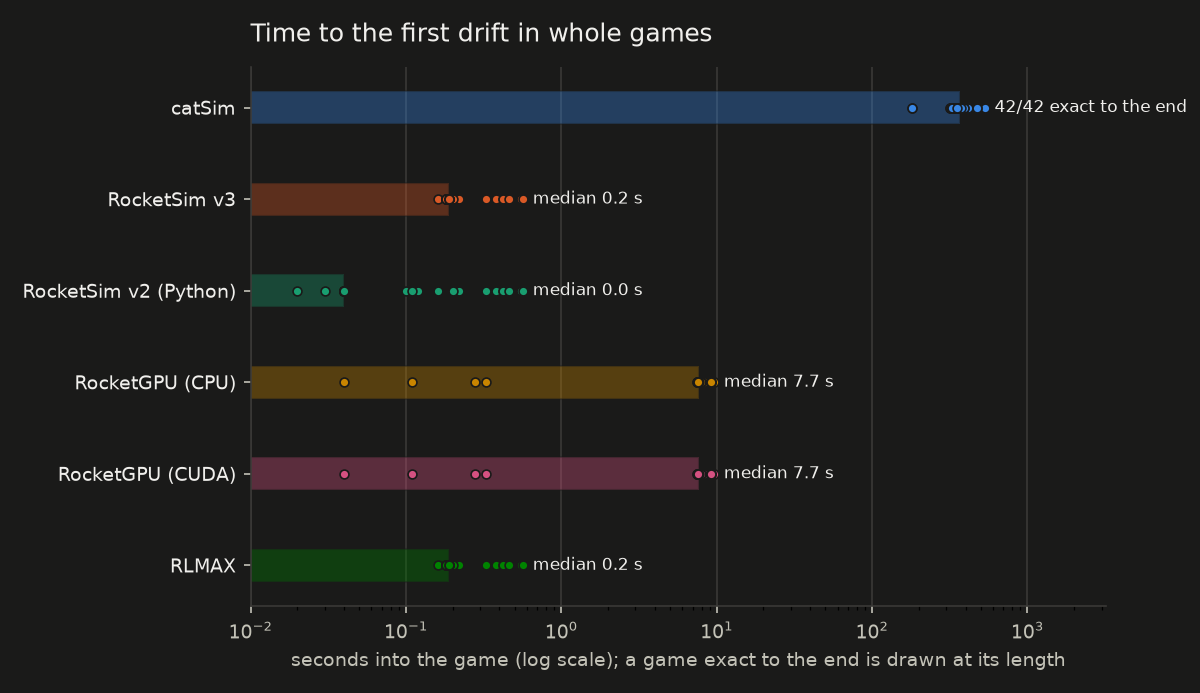
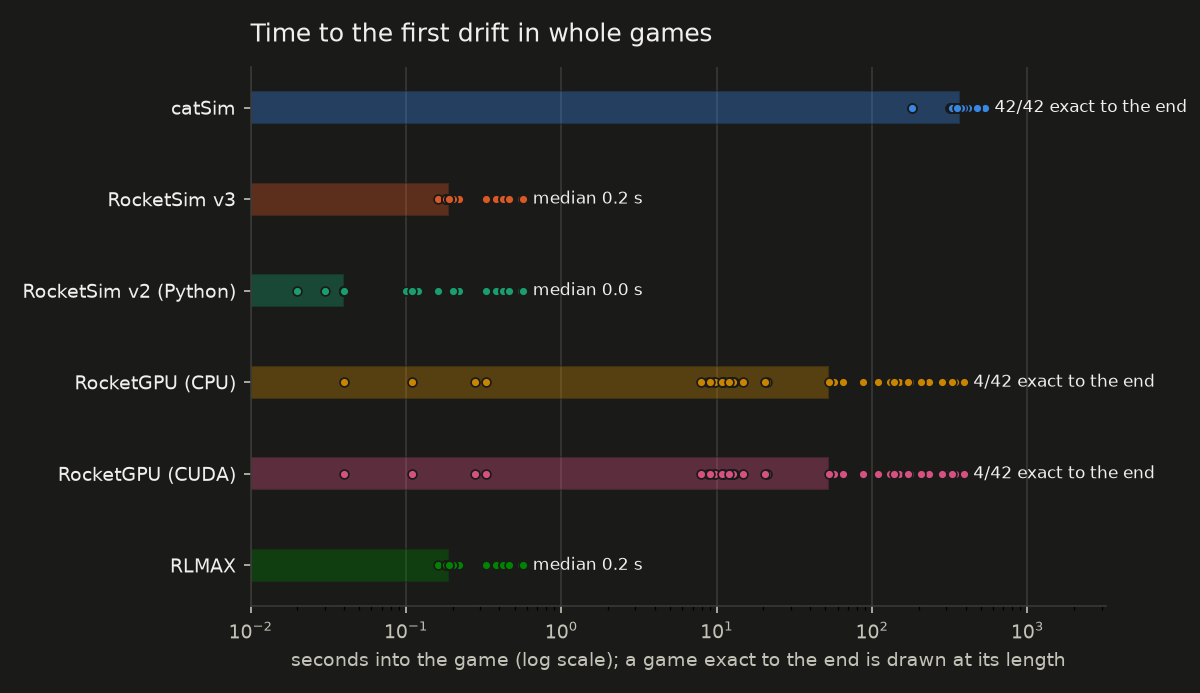
docs: the benchmark from the final runs so far: every later kickoff and respawn exact on the harness flow, catSim's rows on 0.1.3, the machine of each row; RocketGPU CUDA's public state and packet fields still to come

Changed region(s): [[0.555, 0.6364, 0.9558, 0.7273], [0.555, 0.5152, 0.9558, 0.5758]]

diff --git a/docs/BENCHMARKS.md b/docs/BENCHMARKS.md
@@ -8,25 +8,32 @@ simulator was given and what was scored. Every simulator that was run gets a col
 
 <!-- simbench:summary (generated by python -m simbench report; edit report.py, not this) -->
 
-The same tests for every simulator, on one machine: Intel Core i7-11700K (16 threads), NVIDIA RTX 5070 Ti, 2026-11-07.
+The same tests for every simulator, on one machine (Intel Core i7-11700K (16 threads, RTX 5070 Ti), 2026-11-07) but for the accuracy rows the notes name.
 
 ## Accuracy
 
+### Whole games: the simulator runs each match from the first kickoff to the end
+
 | test | catSim | RocketGPU (CPU) | RocketGPU (CUDA) | RocketSim v3 | RocketSim v2 | RLMAX |
 |---|---|---|---|---|---|---|
-| **Whole games: the simulator runs each match from the first kickoff to the end** | | | | | | |
-| Kickoff and respawn spots given<br><sub>42 recorded matches, compared at packet precision</sub> | **42 / 42** exact to the end | **0 / 42** first drift after 7.7 s (median) | **0 / 42** first drift after 7.7 s (median) | **0 / 42** first drift after 0.2 s (median) | **0 / 42** first drift after 0.0 s (median) | **0 / 42** first drift after 0.2 s (median) |
+| Kickoff and respawn spots given<br><sub>42 recorded matches, compared at packet precision</sub> | **42 / 42** exact to the end | **4 / 42** first drift after 36.9 s (median) | **4 / 42** first drift after 36.9 s (median) | **0 / 42** first drift after 0.2 s (median) | **0 / 42** first drift after 0.0 s (median) | **0 / 42** first drift after 0.2 s (median) |
 | Only the random stream's initial state given<br><sub>7 recorded matches; the simulator picks every spot itself</sub> | **6 / 7** 1 match drifts, the first at 154.4 s | **—** doesn't model the game's random stream | **—** doesn't model the game's random stream | **—** doesn't model the game's random stream | **—** doesn't model the game's random stream | **—** doesn't model the game's random stream |
-| At float precision, spots given<br><sub>7 captured matches, every body's internal floats after every frame</sub> | **6 / 7** 1 of 287,409 float rows off | **0 / 7** 59.02% of float rows exact | **0 / 7** 59.02% of float rows exact | **0 / 7** 0.01% of float rows exact | **0 / 7** 0.01% of float rows exact | **0 / 7** 4.00% of float rows exact |
+| At float precision, spots given<br><sub>7 captured matches, every body's internal floats after every frame</sub> | **6 / 7** 1 of 287,409 float rows off | **3 / 7** 84.90% of float rows exact | **3 / 7** 84.90% of float rows exact | **0 / 7** 0.01% of float rows exact | **0 / 7** 0.01% of float rows exact | **0 / 7** 4.00% of float rows exact |
 | At float precision, only the random stream's initial state given<br><sub>7 captured matches, internal floats</sub> | **5 / 7** 91.97% of float rows exact | **—** doesn't model the game's random stream | **—** doesn't model the game's random stream | **—** doesn't model the game's random stream | **—** doesn't model the game's random stream | **—** doesn't model the game's random stream |
-| **Segments: the RocketGPU full-state suite (v2), 26,378 segments of up to 120 ticks, 14.7M body-ticks** | | | | | | |
+
+### Segments: the RocketGPU full-state suite (v2), 26,378 segments of up to 120 ticks, 14.7M body-ticks
+
+| test | catSim | RocketGPU (CPU) | RocketGPU (CUDA) | RocketSim v3 | RocketSim v2 | RLMAX |
+|---|---|---|---|---|---|---|
 | Started from the game's full internal state<br><sub>physics only: nothing to guess</sub> | **100%** of body-ticks exact | **100%** of body-ticks exact | **100%** of body-ticks exact; the test split only: 10 of 144 recordings, 1.6M of 14.7M body-ticks | **—** can't load the full state | **—** can't load the full state | **—** can't load the full state |
 | Started from the public state<br><sub>what a packet shows + RocketSim v3's timers; the rest is guessed</sub> | **90.73%** 92.82% within tolerance | **95.84%** 96.36% within tolerance | *not run* | **4.47%** 86.31% within tolerance | **—** can't take this start state | **91.63%** 96.69% within tolerance; scored on 14.2M of 14.7M body-ticks (753 segments it couldn't run) |
 | Started from packet fields only<br><sub>only what an RLBot packet lists</sub> | **74.32%** 67.06% within tolerance | **78.34%** 69.52% within tolerance | *not run* | **3.07%** 64.22% within tolerance | **—** can't take this start state | **76.15%** 77.14% within tolerance; scored on 14.2M of 14.7M body-ticks (753 segments it couldn't run) |
 | RocketSim's own replay test<br><sub>rlpr_metric, unchanged; 120-tick segments</sub> | **97.46%** of car-ticks within tolerance; mean error 1.25 | **—** its adapter can't take an RLPR tick record | **—** its adapter can't take an RLPR tick record | **97.76%** of car-ticks within tolerance; mean error 0.63 | **—** its adapter can't take an RLPR tick record | **—** its adapter can't take an RLPR tick record |
 
 - catSim's whole games run through catSim (Python), its binding that runs whole matches.
-- Whole games for RocketGPU (CPU), RocketGPU (CUDA), RocketSim v3, RocketSim v2 and RLMAX: the harness supplies the match flow each lacks. The first kickoff's cars are born as the game makes them (the recording's restart through catSim's spawn rules from the dump; the simulator runs the drop), each later kickoff starts where the packet shows it, and the harness holds the cars through each countdown, restarts after goals and puts respawned cars on the recording's spots. Each kickoff and respawn puts a new car there with the game's spawn boost, 33.3. At float precision the bodies are set to the game's own floats at the first float row and at each later kickoff's start. Each runs its own physics, pads, boost and demolitions; scored on bodies only.
+- Whole games for RocketGPU (CPU), RocketGPU (CUDA), RocketSim v3, RocketSim v2 and RLMAX: the harness supplies the match flow each lacks. Every kickoff's and respawn's cars are born as the game makes them (the recording's spots through catSim's spawn rules from the dump, at the frame the game does it; the simulator runs the drop), each later restart puts the ball at the game's own spawn with every boost pad back, and the harness holds the cars through each countdown. Each kickoff and respawn puts a new car there with the game's spawn boost, 33.3. At float precision the bodies are set to the game's own floats at the first float row and at each later kickoff's birth, when they don't already hold them. Each runs its own physics, pads, boost and demolitions; scored on bodies only, read as the game reads a body for its packets (speeds capped, the rotation through its packed quaternion).
+- RocketGPU (CUDA)'s rows on the RTX 4070 ran with one local build patch that card needs: in CopyCarWorldRow (include/rocketgpu/detail/step/env_step.hpp), memcpy(&dst, &src, sizeof(T)) in place of the call with __builtin_assume_aligned, which nvcc rejects for sm_89. The same bytes are copied; bench/adapters/rocketgpu.py has it.
+- Accuracy compares bits, so a row doesn't depend on its machine. These ran on Intel Core i9-13900H (20 threads, RTX 4070 Laptop GPU), every other row on the machine named above: kickoff and respawn spots given: RLMAX, RocketGPU (CPU), RocketGPU (CUDA), RocketSim v2, RocketSim v3, catSim; only the random stream's initial state given: catSim; at float precision, spots given: RLMAX, RocketGPU (CPU), RocketGPU (CUDA), RocketSim v2, RocketSim v3, catSim; at float precision, only the random stream's initial state given: catSim; started from the game's full internal state: catSim; started from the public state: catSim; started from packet fields only: catSim; rocketSim's own replay test: catSim.
 
 **Exact**: Position, velocity, spin and rotation bit-for-bit equal to the game's.  
 **Within tolerance**: Off by less than about 2 units of position or 3 units/s of speed (the RocketGPU full-state suite's own measure: under 1 on its normalized error).  
@@ -81,6 +88,7 @@ Machine:
 
 - 11th Gen Intel(R) Core(TM) i7-11700K @ 3.60GHz, 16 threads, 19.5 GB RAM, Linux 6.18.54.1-microsoft-standard-WSL2 (recordings, rlpr, speed, suite). WSL2 on Windows: load from Windows processes is not measured
 - 11th Gen Intel(R) Core(TM) i7-11700K @ 3.60GHz, 16 threads, 19.5 GB RAM, Linux 6.18.54.1-microsoft-standard-WSL2; NVIDIA GeForce RTX 5070 Ti, 16303 MiB, 617.14 (recordings, rlpr, speed, suite). WSL2 on Windows: load from Windows processes is not measured
+- 13th Gen Intel(R) Core(TM) i9-13900H, 20 threads, 7.6 GB RAM, Linux 6.18.33.2-microsoft-standard-WSL2; NVIDIA GeForce RTX 4070 Laptop GPU, 8188 MiB, 592.00 (recordings, rlpr, suite). WSL2 on Windows: load from Windows processes is not measured
 
 <!-- /simbench:summary -->
 
@@ -158,70 +166,70 @@ Scored: every compared packet row to the end of the recording (positions, veloci
 | simulator | match flow | recordings | exact to the end | packet rows exact | first drift: median (range) | error 1 s / 5 s / 30 s |
 |---|---|---:|---:|---:|---|---|
 | catSim (Python) | its own | 42 | 42 | 1,771,098 of 1,771,098 (100.000%) | 366.6 s (179.9-534.2) | 0.000 / 0.000 / 0.000 |
-| RocketSim v3 | the harness | 42 | 0 | 458 of 1,771,098 (0.026%) | 0.2 s (0.2-0.6) | 2.008 / 9.524 / 10.000 |
-| RocketSim v2 (Python) | the harness | 42 | 0 | 107 of 1,771,098 (0.006%) | 0.0 s (0.0-0.6) | 9.569 / 10.000 / 10.000 |
-| RocketGPU (CPU) | the harness | 42 | 0 | 115,839 of 1,771,098 (6.541%) | 7.7 s (0.0-9.7) | 1.668 / 6.604 / 8.981 |
-| RocketGPU (CUDA) | the harness | 42 | 0 | 115,839 of 1,771,098 (6.541%) | 7.7 s (0.0-9.7) | 1.668 / 6.604 / 8.981 |
-| RLMAX | the harness | 42 | 0 | 416 of 1,771,098 (0.023%) | 0.2 s (0.0-0.6) | 4.319 / 9.659 / 10.000 |
+| RocketSim v3 | the harness | 42 | 0 | 610 of 1,771,098 (0.034%) | 0.2 s (0.2-0.6) | 0.645 / 9.500 / 10.000 |
+| RocketSim v2 (Python) | the harness | 42 | 0 | 107 of 1,771,098 (0.006%) | 0.0 s (0.0-0.6) | 9.565 / 10.000 / 10.000 |
+| RocketGPU (CPU) | the harness | 42 | 4 | 1,063,162 of 1,771,098 (60.028%) | 36.9 s (0.0-390.0) | 0.004 / 0.259 / 4.250 |
+| RocketGPU (CUDA) | the harness | 42 | 4 | 1,063,162 of 1,771,098 (60.028%) | 36.9 s (0.0-390.0) | 0.004 / 0.259 / 4.250 |
+| RLMAX | the harness | 42 | 0 | 459 of 1,771,098 (0.026%) | 0.2 s (0.2-0.6) | 3.310 / 9.609 / 10.000 |
 
 Assists for catSim (Python): the first kickoff's start: each car's spot and how many ticks before the first packet its body was born, the broadphase handles, the countdown's timer as it stood; each later kickoff's spots and each demolition respawn's spot, from the recording (the game's random choices); the end-of-match rule: a match that ends in a frame publishes the state before it.
 
-Assists for RocketSim v3: the harness supplies only the match flow the simulator lacks: the first kickoff's cars born as the game makes them (the recording's restart through catSim's spawn rules from the dump: each body at birth, the ticks it is born at; the simulator runs the drop) with the ball held on its spot; each later kickoff's start where the recording's countdown starts it, as its packet shows it (positions to 0.01 uu, velocities to 0.01 uu/s); at float precision, the bodies then set to the game's own floats at the first float row and at each later kickoff's start; a new car with the game's spawn boost, 33.3; the hold through each countdown, the restart after each goal when the recording has it, and each demolished car's respawn spot from the recording; the simulator runs everything it models itself: physics, boost and pads, demolitions and their respawn timers, goals (its own goal, if it has one, changes nothing the harness does); each frame's physics ticks counted from the recording; scored on bodies only (no boost or pads).
+Assists for RocketSim v3: the harness supplies only the match flow the simulator lacks: each kickoff's cars born as the game makes them (the recording's spots through catSim's spawn rules from the dump: each body at birth, the tick it is born at; the simulator runs the drop); the ball on its spot at the first kickoff and, at each later one, at the game's spawn from the restart's frame on, with every boost pad back; each demolished car's respawn the same way, at the recording's spot; at float precision, the bodies then set to the game's own floats at the first float row and at each later kickoff's birth; a new car with the game's spawn boost, 33.3; the hold through each countdown; the end-of-match rule: a match that ends in a frame publishes the state before it; the simulator runs everything it models itself: physics, boost and pads, demolitions and their respawn timers, goals (its own goal, if it has one, changes nothing the harness does); each frame's physics ticks counted from the recording; scored on bodies only (no boost or pads).
 
-Assists for RocketSim v2 (Python): the harness supplies only the match flow the simulator lacks: the first kickoff's cars born as the game makes them (the recording's restart through catSim's spawn rules from the dump: each body at birth, the ticks it is born at; the simulator runs the drop) with the ball held on its spot; each later kickoff's start where the recording's countdown starts it, as its packet shows it (positions to 0.01 uu, velocities to 0.01 uu/s); at float precision, the bodies then set to the game's own floats at the first float row and at each later kickoff's start; a new car with the game's spawn boost, 33.3; the hold through each countdown, the restart after each goal when the recording has it, and each demolished car's respawn spot from the recording; the simulator runs everything it models itself: physics, boost and pads, demolitions and their respawn timers, goals (its own goal, if it has one, changes nothing the harness does); each frame's physics ticks counted from the recording; scored on bodies only (no boost or pads).
+Assists for RocketSim v2 (Python): the harness supplies only the match flow the simulator lacks: each kickoff's cars born as the game makes them (the recording's spots through catSim's spawn rules from the dump: each body at birth, the tick it is born at; the simulator runs the drop); the ball on its spot at the first kickoff and, at each later one, at the game's spawn from the restart's frame on, with every boost pad back; each demolished car's respawn the same way, at the recording's spot; at float precision, the bodies then set to the game's own floats at the first float row and at each later kickoff's birth; a new car with the game's spawn boost, 33.3; the hold through each countdown; the end-of-match rule: a match that ends in a frame publishes the state before it; the simulator runs everything it models itself: physics, boost and pads, demolitions and their respawn timers, goals (its own goal, if it has one, changes nothing the harness does); each frame's physics ticks counted from the recording; scored on bodies only (no boost or pads).
 
-Assists for RocketGPU (CPU): the harness supplies only the match flow the simulator lacks: the first kickoff's cars born as the game makes them (the recording's restart through catSim's spawn rules from the dump: each body at birth, the ticks it is born at; the simulator runs the drop) with the ball held on its spot; each later kickoff's start where the recording's countdown starts it, as its packet shows it (positions to 0.01 uu, velocities to 0.01 uu/s); at float precision, the bodies then set to the game's own floats at the first float row and at each later kickoff's start; a new car with the game's spawn boost, 33.3; the hold through each countdown, the restart after each goal when the recording has it, and each demolished car's respawn spot from the recording; the simulator runs everything it models itself: physics, boost and pads, demolitions and their respawn timers, goals (its own goal, if it has one, changes nothing the harness does); each frame's physics ticks counted from the recording; scored on bodies only (no boost or pads).
+Assists for RocketGPU (CPU): the harness supplies only the match flow the simulator lacks: each kickoff's cars born as the game makes them (the recording's spots through catSim's spawn rules from the dump: each body at birth, the tick it is born at; the simulator runs the drop); the ball on its spot at the first kickoff and, at each later one, at the game's spawn from the restart's frame on, with every boost pad back; each demolished car's respawn the same way, at the recording's spot; at float precision, the bodies then set to the game's own floats at the first float row and at each later kickoff's birth; a new car with the game's spawn boost, 33.3; the hold through each countdown; the end-of-match rule: a match that ends in a frame publishes the state before it; the simulator runs everything it models itself: physics, boost and pads, demolitions and their respawn timers, goals (its own goal, if it has one, changes nothing the harness does); each frame's physics ticks counted from the recording; scored on bodies only (no boost or pads).
 
-Assists for RocketGPU (CUDA): the harness supplies only the match flow the simulator lacks: the first kickoff's cars born as the game makes them (the recording's restart through catSim's spawn rules from the dump: each body at birth, the ticks it is born at; the simulator runs the drop) with the ball held on its spot; each later kickoff's start where the recording's countdown starts it, as its packet shows it (positions to 0.01 uu, velocities to 0.01 uu/s); at float precision, the bodies then set to the game's own floats at the first float row and at each later kickoff's start; a new car with the game's spawn boost, 33.3; the hold through each countdown, the restart after each goal when the recording has it, and each demolished car's respawn spot from the recording; the simulator runs everything it models itself: physics, boost and pads, demolitions and their respawn timers, goals (its own goal, if it has one, changes nothing the harness does); each frame's physics ticks counted from the recording; scored on bodies only (no boost or pads).
+Assists for RocketGPU (CUDA): the harness supplies only the match flow the simulator lacks: each kickoff's cars born as the game makes them (the recording's spots through catSim's spawn rules from the dump: each body at birth, the tick it is born at; the simulator runs the drop); the ball on its spot at the first kickoff and, at each later one, at the game's spawn from the restart's frame on, with every boost pad back; each demolished car's respawn the same way, at the recording's spot; at float precision, the bodies then set to the game's own floats at the first float row and at each later kickoff's birth; a new car with the game's spawn boost, 33.3; the hold through each countdown; the end-of-match rule: a match that ends in a frame publishes the state before it; the simulator runs everything it models itself: physics, boost and pads, demolitions and their respawn timers, goals (its own goal, if it has one, changes nothing the harness does); each frame's physics ticks counted from the recording; scored on bodies only (no boost or pads).
 
-Assists for RLMAX: the harness supplies only the match flow the simulator lacks: the first kickoff's cars born as the game makes them (the recording's restart through catSim's spawn rules from the dump: each body at birth, the ticks it is born at; the simulator runs the drop) with the ball held on its spot; each later kickoff's start where the recording's countdown starts it, as its packet shows it (positions to 0.01 uu, velocities to 0.01 uu/s); at float precision, the bodies then set to the game's own floats at the first float row and at each later kickoff's start; a new car with the game's spawn boost, 33.3; the hold through each countdown, the restart after each goal when the recording has it, and each demolished car's respawn spot from the recording; the simulator runs everything it models itself: physics, boost and pads, demolitions and their respawn timers, goals (its own goal, if it has one, changes nothing the harness does); each frame's physics ticks counted from the recording; scored on bodies only (no boost or pads).
+Assists for RLMAX: the harness supplies only the match flow the simulator lacks: each kickoff's cars born as the game makes them (the recording's spots through catSim's spawn rules from the dump: each body at birth, the tick it is born at; the simulator runs the drop); the ball on its spot at the first kickoff and, at each later one, at the game's spawn from the restart's frame on, with every boost pad back; each demolished car's respawn the same way, at the recording's spot; at float precision, the bodies then set to the game's own floats at the first float row and at each later kickoff's birth; a new car with the game's spawn boost, 33.3; the hold through each countdown; the end-of-match rule: a match that ends in a frame publishes the state before it; the simulator runs everything it models itself: physics, boost and pads, demolitions and their respawn timers, goals (its own goal, if it has one, changes nothing the harness does); each frame's physics ticks counted from the recording; scored on bodies only (no boost or pads).
 
 Each match: exact to the end, or when it first drifts:
 
 | match | catSim (Python) | RocketSim v3 | RocketSim v2 (Python) | RocketGPU (CPU) | RocketGPU (CUDA) | RLMAX |
 |---|---|---|---|---|---|---|
 | 1v1_stadium_01 | exact | 0.16 s | 0.04 s | 0.04 s | 0.04 s | 0.16 s |
-| 1v1_stadium_02 | exact | 0.2 s | 0.16 s | 9.62 s | 9.62 s | 0.2 s |
-| 1v1_stadium_03 | exact | 0.2 s | 0.02 s | 9.02 s | 9.02 s | 0.0 s |
-| 1v1_stadium_04 | exact | 0.19 s | 0.04 s | 9.23 s | 9.23 s | 0.19 s |
-| 1v1_stadium_05 | exact | 0.19 s | 0.04 s | 8.28 s | 8.28 s | 0.19 s |
-| 1v1_stadium_06 | exact | 0.19 s | 0.04 s | 8.09 s | 8.09 s | 0.19 s |
-| 1v1_stadium_07 | exact | 0.18 s | 0.04 s | 7.74 s | 7.74 s | 0.18 s |
-| 1v1_stadium_08 | exact | 0.19 s | 0.04 s | 7.67 s | 7.67 s | 0.19 s |
-| 2v2_night_01 | exact | 0.19 s | 0.04 s | 7.62 s | 7.62 s | 0.19 s |
-| 2v2_night_02 | exact | 0.19 s | 0.04 s | 7.47 s | 7.47 s | 0.19 s |
-| 2v2_night_03 | exact | 0.19 s | 0.04 s | 7.49 s | 7.49 s | 0.19 s |
-| 2v2_night_04 | exact | 0.19 s | 0.04 s | 7.65 s | 7.65 s | 0.19 s |
-| 2v2_stadium_01 | exact | 0.19 s | 0.04 s | 7.68 s | 7.68 s | 0.19 s |
-| 2v2_stadium_02 | exact | 0.19 s | 0.04 s | 9.25 s | 9.25 s | 0.19 s |
-| 2v2_stadium_03 | exact | 0.38 s | 0.38 s | 9.68 s | 9.68 s | 0.38 s |
-| 2v2_stadium_04 | exact | 0.19 s | 0.12 s | 8.13 s | 8.13 s | 0.19 s |
+| 1v1_stadium_02 | exact | 0.2 s | 0.16 s | 88.08 s | 88.08 s | 0.2 s |
+| 1v1_stadium_03 | exact | 0.2 s | 0.02 s | 385.38 s | 385.38 s | 0.2 s |
+| 1v1_stadium_04 | exact | 0.19 s | 0.04 s | 233.13 s | 233.13 s | 0.19 s |
+| 1v1_stadium_05 | exact | 0.19 s | 0.04 s | 108.47 s | 108.47 s | 0.19 s |
+| 1v1_stadium_06 | exact | 0.19 s | 0.04 s | exact | exact | 0.19 s |
+| 1v1_stadium_07 | exact | 0.18 s | 0.04 s | 131.47 s | 131.47 s | 0.18 s |
+| 1v1_stadium_08 | exact | 0.19 s | 0.04 s | 341.14 s | 341.14 s | 0.19 s |
+| 2v2_night_01 | exact | 0.19 s | 0.04 s | 148.76 s | 148.76 s | 0.19 s |
+| 2v2_night_02 | exact | 0.19 s | 0.04 s | 12.91 s | 12.91 s | 0.19 s |
+| 2v2_night_03 | exact | 0.19 s | 0.04 s | 21.0 s | 21.0 s | 0.19 s |
+| 2v2_night_04 | exact | 0.19 s | 0.04 s | 65.33 s | 65.33 s | 0.19 s |
+| 2v2_stadium_01 | exact | 0.19 s | 0.04 s | 308.77 s | 308.77 s | 0.19 s |
+| 2v2_stadium_02 | exact | 0.19 s | 0.04 s | 57.13 s | 57.13 s | 0.19 s |
+| 2v2_stadium_03 | exact | 0.38 s | 0.38 s | 20.62 s | 20.62 s | 0.38 s |
+| 2v2_stadium_04 | exact | 0.19 s | 0.12 s | 176.44 s | 176.44 s | 0.19 s |
 | 2v2_stadium_05 | exact | 0.22 s | 0.22 s | 0.28 s | 0.28 s | 0.22 s |
-| 2v2_stadium_06 | exact | 0.2 s | 0.2 s | 7.64 s | 7.64 s | 0.2 s |
+| 2v2_stadium_06 | exact | 0.2 s | 0.2 s | 8.78 s | 8.78 s | 0.2 s |
 | 2v2_stadium_07 | exact | 0.33 s | 0.33 s | 0.33 s | 0.33 s | 0.33 s |
-| 2v2_stadium_08 | exact | 0.19 s | 0.04 s | 9.21 s | 9.21 s | 0.19 s |
-| 2v2_stadium_09 | exact | 0.18 s | 0.04 s | 7.53 s | 7.53 s | 0.18 s |
-| 2v2_stadium_10 | exact | 0.18 s | 0.04 s | 7.6 s | 7.6 s | 0.18 s |
-| 3v3_stadium_01 | exact | 0.46 s | 0.46 s | 7.83 s | 7.83 s | 0.46 s |
-| 3v3_stadium_02 | exact | 0.45 s | 0.45 s | 7.67 s | 7.67 s | 0.45 s |
-| 3v3_stadium_03 | exact | 0.42 s | 0.42 s | 7.57 s | 7.57 s | 0.42 s |
-| 3v3_stadium_04 | exact | 0.19 s | 0.04 s | 8.72 s | 8.72 s | 0.19 s |
-| 3v3_stadium_05 | exact | 0.57 s | 0.57 s | 9.07 s | 9.07 s | 0.57 s |
-| 3v3_stadium_06 | exact | 0.19 s | 0.04 s | 9.13 s | 9.13 s | 0.19 s |
-| 3v3_stadium_07 | exact | 0.42 s | 0.42 s | 7.76 s | 7.76 s | 0.42 s |
-| 3v3_stadium_08 | exact | 0.55 s | 0.55 s | 8.38 s | 8.38 s | 0.55 s |
-| 3v3_stadium_09 | exact | 0.55 s | 0.55 s | 7.66 s | 7.66 s | 0.55 s |
-| 3v3_stadium_10 | exact | 0.55 s | 0.55 s | 7.64 s | 7.64 s | 0.55 s |
-| 3v3_stadium_11 | exact | 0.46 s | 0.46 s | 7.98 s | 7.98 s | 0.46 s |
+| 2v2_stadium_08 | exact | 0.19 s | 0.04 s | exact | exact | 0.19 s |
+| 2v2_stadium_09 | exact | 0.18 s | 0.04 s | 167.41 s | 167.41 s | 0.18 s |
+| 2v2_stadium_10 | exact | 0.18 s | 0.04 s | 138.3 s | 138.3 s | 0.18 s |
+| 3v3_stadium_01 | exact | 0.46 s | 0.46 s | 12.06 s | 12.06 s | 0.46 s |
+| 3v3_stadium_02 | exact | 0.45 s | 0.45 s | 10.83 s | 10.83 s | 0.45 s |
+| 3v3_stadium_03 | exact | 0.42 s | 0.42 s | 14.81 s | 14.81 s | 0.42 s |
+| 3v3_stadium_04 | exact | 0.19 s | 0.04 s | 12.61 s | 12.61 s | 0.19 s |
+| 3v3_stadium_05 | exact | 0.57 s | 0.57 s | 9.64 s | 9.64 s | 0.57 s |
+| 3v3_stadium_06 | exact | 0.19 s | 0.04 s | 283.86 s | 283.86 s | 0.19 s |
+| 3v3_stadium_07 | exact | 0.42 s | 0.42 s | 12.72 s | 12.72 s | 0.42 s |
+| 3v3_stadium_08 | exact | 0.55 s | 0.55 s | 11.23 s | 11.23 s | 0.55 s |
+| 3v3_stadium_09 | exact | 0.55 s | 0.55 s | 11.03 s | 11.03 s | 0.55 s |
+| 3v3_stadium_10 | exact | 0.55 s | 0.55 s | 9.8 s | 9.8 s | 0.55 s |
+| 3v3_stadium_11 | exact | 0.46 s | 0.46 s | 10.8 s | 10.8 s | 0.46 s |
 | 3v3_stadium_12 | exact | 0.55 s | 0.55 s | 7.91 s | 7.91 s | 0.55 s |
 | 3v3_stadium_13 | exact | 0.57 s | 0.57 s | 9.06 s | 9.06 s | 0.57 s |
-| 3v3_stadium_14 | exact | 0.33 s | 0.33 s | 9.19 s | 9.19 s | 0.33 s |
-| 3v3_stadium_15 | exact | 0.19 s | 0.04 s | 9.23 s | 9.23 s | 0.19 s |
-| 3v3_stadium_16 | exact | 0.18 s | 0.04 s | 7.54 s | 7.54 s | 0.18 s |
-| 3v3_stadium_17 | exact | 0.18 s | 0.04 s | 7.53 s | 7.53 s | 0.18 s |
-| float_1v1_stadium_02 | exact | 0.19 s | 0.03 s | 7.67 s | 7.67 s | 0.0 s |
+| 3v3_stadium_14 | exact | 0.33 s | 0.33 s | 12.05 s | 12.05 s | 0.33 s |
+| 3v3_stadium_15 | exact | 0.19 s | 0.04 s | 170.77 s | 170.77 s | 0.19 s |
+| 3v3_stadium_16 | exact | 0.18 s | 0.04 s | 52.79 s | 52.79 s | 0.18 s |
+| 3v3_stadium_17 | exact | 0.18 s | 0.04 s | exact | exact | 0.18 s |
+| float_1v1_stadium_02 | exact | 0.19 s | 0.03 s | exact | exact | 0.2 s |
 | float_2v2_stadium_02 | exact | 0.19 s | 0.1 s | 0.11 s | 0.11 s | 0.19 s |
-| float_3v3_stadium_02 | exact | 0.19 s | 0.11 s | 7.53 s | 7.53 s | 0.19 s |
+| float_3v3_stadium_02 | exact | 0.19 s | 0.11 s | 207.74 s | 207.74 s | 0.19 s |
 
 ### Whole games from the initial kickoff state, only the game's random stream's initial state given
 
@@ -261,35 +269,35 @@ Scored: every compared packet row to the end of the recording (positions, veloci
 | simulator | match flow | recordings | exact to the end | packet rows exact | first drift: median (range) | error 1 s / 5 s / 30 s |
 |---|---|---:|---:|---:|---|---|
 | catSim (Python) | its own | 7 | 6 | 287,408 of 287,409 (100.000%) | 352.9 s (82.8-390.0) | 0.000 / 0.000 / 0.000 |
-| RocketSim v3 | the harness | 7 | 0 | 31 of 287,409 (0.011%) | 7.1 s (0.1-7.1) | 6.805 / 9.978 / 10.000 |
-| RocketSim v2 (Python) | the harness | 7 | 0 | 31 of 287,409 (0.011%) | 7.1 s (0.1-7.1) | 8.950 / 10.000 / 10.000 |
-| RocketGPU (CPU) | the harness | 7 | 0 | 169,624 of 287,409 (59.018%) | 74.3 s (18.9-324.3) | 5.895 / 3.451 / 4.833 |
-| RocketGPU (CUDA) | the harness | 7 | 0 | 169,624 of 287,409 (59.018%) | 74.3 s (18.9-324.3) | 5.895 / 3.451 / 4.833 |
-| RLMAX | the harness | 7 | 0 | 11,509 of 287,409 (4.004%) | 15.0 s (0.2-24.8) | 7.195 / 8.434 / 9.524 |
+| RocketSim v3 | the harness | 7 | 0 | 31 of 287,409 (0.011%) | 7.1 s (0.1-7.1) | 3.145 / 9.978 / 10.000 |
+| RocketSim v2 (Python) | the harness | 7 | 0 | 31 of 287,409 (0.011%) | 7.1 s (0.1-7.1) | 9.001 / 10.000 / 10.000 |
+| RocketGPU (CPU) | the harness | 7 | 3 | 244,011 of 287,409 (84.900%) | 207.7 s (18.9-390.0) | 0.004 / 0.719 / 0.958 |
+| RocketGPU (CUDA) | the harness | 7 | 3 | 244,011 of 287,409 (84.900%) | 207.7 s (18.9-390.0) | 0.004 / 0.719 / 0.958 |
+| RLMAX | the harness | 7 | 0 | 11,509 of 287,409 (4.004%) | 15.0 s (0.2-24.8) | 3.315 / 7.858 / 9.524 |
 
 Assists for catSim (Python): the first kickoff's start: each car's spot and how many ticks before the first packet its body was born, the broadphase handles, the countdown's timer as it stood; each later kickoff's spots and each demolition respawn's spot, from the recording (the game's random choices); the end-of-match rule: a match that ends in a frame publishes the state before it.
 
-Assists for RocketSim v3: the harness supplies only the match flow the simulator lacks: the first kickoff's cars born as the game makes them (the recording's restart through catSim's spawn rules from the dump: each body at birth, the ticks it is born at; the simulator runs the drop) with the ball held on its spot; each later kickoff's start where the recording's countdown starts it, as its packet shows it (positions to 0.01 uu, velocities to 0.01 uu/s); at float precision, the bodies then set to the game's own floats at the first float row and at each later kickoff's start; a new car with the game's spawn boost, 33.3; the hold through each countdown, the restart after each goal when the recording has it, and each demolished car's respawn spot from the recording; the simulator runs everything it models itself: physics, boost and pads, demolitions and their respawn timers, goals (its own goal, if it has one, changes nothing the harness does); each frame's physics ticks counted from the recording; scored on bodies only (no boost or pads).
+Assists for RocketSim v3: the harness supplies only the match flow the simulator lacks: each kickoff's cars born as the game makes them (the recording's spots through catSim's spawn rules from the dump: each body at birth, the tick it is born at; the simulator runs the drop); the ball on its spot at the first kickoff and, at each later one, at the game's spawn from the restart's frame on, with every boost pad back; each demolished car's respawn the same way, at the recording's spot; at float precision, the bodies then set to the game's own floats at the first float row and at each later kickoff's birth; a new car with the game's spawn boost, 33.3; the hold through each countdown; the end-of-match rule: a match that ends in a frame publishes the state before it; the simulator runs everything it models itself: physics, boost and pads, demolitions and their respawn timers, goals (its own goal, if it has one, changes nothing the harness does); each frame's physics ticks counted from the recording; scored on bodies only (no boost or pads).
 
-Assists for RocketSim v2 (Python): the harness supplies only the match flow the simulator lacks: the first kickoff's cars born as the game makes them (the recording's restart through catSim's spawn rules from the dump: each body at birth, the ticks it is born at; the simulator runs the drop) with the ball held on its spot; each later kickoff's start where the recording's countdown starts it, as its packet shows it (positions to 0.01 uu, velocities to 0.01 uu/s); at float precision, the bodies then set to the game's own floats at the first float row and at each later kickoff's start; a new car with the game's spawn boost, 33.3; the hold through each countdown, the restart after each goal when the recording has it, and each demolished car's respawn spot from the recording; the simulator runs everything it models itself: physics, boost and pads, demolitions and their respawn timers, goals (its own goal, if it has one, changes nothing the harness does); each frame's physics ticks counted from the recording; scored on bodies only (no boost or pads).
+Assists for RocketSim v2 (Python): the harness supplies only the match flow the simulator lacks: each kickoff's cars born as the game makes them (the recording's spots through catSim's spawn rules from the dump: each body at birth, the tick it is born at; the simulator runs the drop); the ball on its spot at the first kickoff and, at each later one, at the game's spawn from the restart's frame on, with every boost pad back; each demolished car's respawn the same way, at the recording's spot; at float precision, the bodies then set to the game's own floats at the first float row and at each later kickoff's birth; a new car with the game's spawn boost, 33.3; the hold through each countdown; the end-of-match rule: a match that ends in a frame publishes the state before it; the simulator runs everything it models itself: physics, boost and pads, demolitions and their respawn timers, goals (its own goal, if it has one, changes nothing the harness does); each frame's physics ticks counted from the recording; scored on bodies only (no boost or pads).
 
-Assists for RocketGPU (CPU): the harness supplies only the match flow the simulator lacks: the first kickoff's cars born as the game makes them (the recording's restart through catSim's spawn rules from the dump: each body at birth, the ticks it is born at; the simulator runs the drop) with the ball held on its spot; each later kickoff's start where the recording's countdown starts it, as its packet shows it (positions to 0.01 uu, velocities to 0.01 uu/s); at float precision, the bodies then set to the game's own floats at the first float row and at each later kickoff's start; a new car with the game's spawn boost, 33.3; the hold through each countdown, the restart after each goal when the recording has it, and each demolished car's respawn spot from the recording; the simulator runs everything it models itself: physics, boost and pads, demolitions and their respawn timers, goals (its own goal, if it has one, changes nothing the harness does); each frame's physics ticks counted from the recording; scored on bodies only (no boost or pads).
+Assists for RocketGPU (CPU): the harness supplies only the match flow the simulator lacks: each kickoff's cars born as the game makes them (the recording's spots through catSim's spawn rules from the dump: each body at birth, the tick it is born at; the simulator runs the drop); the ball on its spot at the first kickoff and, at each later one, at the game's spawn from the restart's frame on, with every boost pad back; each demolished car's respawn the same way, at the recording's spot; at float precision, the bodies then set to the game's own floats at the first float row and at each later kickoff's birth; a new car with the game's spawn boost, 33.3; the hold through each countdown; the end-of-match rule: a match that ends in a frame publishes the state before it; the simulator runs everything it models itself: physics, boost and pads, demolitions and their respawn timers, goals (its own goal, if it has one, changes nothing the harness does); each frame's physics ticks counted from the recording; scored on bodies only (no boost or pads).
 
-Assists for RocketGPU (CUDA): the harness supplies only the match flow the simulator lacks: the first kickoff's cars born as the game makes them (the recording's restart through catSim's spawn rules from the dump: each body at birth, the ticks it is born at; the simulator runs the drop) with the ball held on its spot; each later kickoff's start where the recording's countdown starts it, as its packet shows it (positions to 0.01 uu, velocities to 0.01 uu/s); at float precision, the bodies then set to the game's own floats at the first float row and at each later kickoff's start; a new car with the game's spawn boost, 33.3; the hold through each countdown, the restart after each goal when the recording has it, and each demolished car's respawn spot from the recording; the simulator runs everything it models itself: physics, boost and pads, demolitions and their respawn timers, goals (its own goal, if it has one, changes nothing the harness does); each frame's physics ticks counted from the recording; scored on bodies only (no boost or pads).
+Assists for RocketGPU (CUDA): the harness supplies only the match flow the simulator lacks: each kickoff's cars born as the game makes them (the recording's spots through catSim's spawn rules from the dump: each body at birth, the tick it is born at; the simulator runs the drop); the ball on its spot at the first kickoff and, at each later one, at the game's spawn from the restart's frame on, with every boost pad back; each demolished car's respawn the same way, at the recording's spot; at float precision, the bodies then set to the game's own floats at the first float row and at each later kickoff's birth; a new car with the game's spawn boost, 33.3; the hold through each countdown; the end-of-match rule: a match that ends in a frame publishes the state before it; the simulator runs everything it models itself: physics, boost and pads, demolitions and their respawn timers, goals (its own goal, if it has one, changes nothing the harness does); each frame's physics ticks counted from the recording; scored on bodies only (no boost or pads).
 
-Assists for RLMAX: the harness supplies only the match flow the simulator lacks: the first kickoff's cars born as the game makes them (the recording's restart through catSim's spawn rules from the dump: each body at birth, the ticks it is born at; the simulator runs the drop) with the ball held on its spot; each later kickoff's start where the recording's countdown starts it, as its packet shows it (positions to 0.01 uu, velocities to 0.01 uu/s); at float precision, the bodies then set to the game's own floats at the first float row and at each later kickoff's start; a new car with the game's spawn boost, 33.3; the hold through each countdown, the restart after each goal when the recording has it, and each demolished car's respawn spot from the recording; the simulator runs everything it models itself: physics, boost and pads, demolitions and their respawn timers, goals (its own goal, if it has one, changes nothing the harness does); each frame's physics ticks counted from the recording; scored on bodies only (no boost or pads).
+Assists for RLMAX: the harness supplies only the match flow the simulator lacks: each kickoff's cars born as the game makes them (the recording's spots through catSim's spawn rules from the dump: each body at birth, the tick it is born at; the simulator runs the drop); the ball on its spot at the first kickoff and, at each later one, at the game's spawn from the restart's frame on, with every boost pad back; each demolished car's respawn the same way, at the recording's spot; at float precision, the bodies then set to the game's own floats at the first float row and at each later kickoff's birth; a new car with the game's spawn boost, 33.3; the hold through each countdown; the end-of-match rule: a match that ends in a frame publishes the state before it; the simulator runs everything it models itself: physics, boost and pads, demolitions and their respawn timers, goals (its own goal, if it has one, changes nothing the harness does); each frame's physics ticks counted from the recording; scored on bodies only (no boost or pads).
 
 Each match: exact to the end, or when it first drifts:
 
 | match | catSim (Python) | RocketSim v3 | RocketSim v2 (Python) | RocketGPU (CPU) | RocketGPU (CUDA) | RLMAX |
 |---|---|---|---|---|---|---|
-| float_1v1_stadium_01 | exact | 7.09 s | 7.09 s | 68.31 s | 68.31 s | 16.93 s |
-| float_1v1_stadium_02 | exact | 7.03 s | 7.03 s | 129.12 s | 129.12 s | 23.28 s |
+| float_1v1_stadium_01 | exact | 7.09 s | 7.09 s | 169.78 s | 169.78 s | 16.93 s |
+| float_1v1_stadium_02 | exact | 7.03 s | 7.03 s | exact | exact | 23.28 s |
 | float_2v2_night_01 | exact | 0.07 s | 0.07 s | 53.61 s | 53.61 s | 0.19 s |
-| float_2v2_stadium_01 | exact | 7.09 s | 7.09 s | 324.27 s | 324.27 s | 24.84 s |
+| float_2v2_stadium_01 | exact | 7.09 s | 7.09 s | exact | exact | 24.84 s |
 | float_2v2_stadium_02 | 82.81 s | 7.1 s | 7.1 s | 18.92 s | 18.92 s | 14.12 s |
-| float_3v3_stadium_01 | exact | 7.09 s | 7.09 s | 108.86 s | 108.86 s | 15.0 s |
-| float_3v3_stadium_02 | exact | 7.09 s | 7.09 s | 74.32 s | 74.32 s | 11.04 s |
+| float_3v3_stadium_01 | exact | 7.09 s | 7.09 s | exact | exact | 15.0 s |
+| float_3v3_stadium_02 | exact | 7.09 s | 7.09 s | 207.74 s | 207.74 s | 11.04 s |
 
 ### Whole games at float precision from the initial kickoff state, only the game's random stream's initial state given
 

diff --git a/README.md b/README.md
@@ -7,8 +7,8 @@ like RocketSim's, so most RocketSim scripts run with one changed import.
 
 <!-- simbench:glance (generated by python -m simbench report; edit report.py, not this) -->
 
-- **Whole games from the initial kickoff state, the game's kickoff and respawn spots given** (42 recorded matches): catSim 42/42 exact to the end; RocketGPU (CUDA) 0/42 exact to the end, first drift after 7.7 s (median); RocketGPU (CPU) 0/42 exact to the end, first drift after 7.7 s (median); RocketSim v3 0/42 exact to the end, first drift after 0.2 s (median); RLMAX 0/42 exact to the end, first drift after 0.2 s (median); RocketSim v2 (Python) 0/42 exact to the end, first drift after 0.0 s (median).
-- **Whole games at float precision from the initial kickoff state, kickoff and respawn spots given** (7 recorded matches): catSim 6/7 exact to the end, 1 of 287,409 float rows off; RocketGPU (CUDA) 0/7 exact to the end, 59.02% of float rows exact; RocketGPU (CPU) 0/7 exact to the end, 59.02% of float rows exact; RLMAX 0/7 exact to the end, 4.00% of float rows exact; RocketSim v3 0/7 exact to the end, 0.01% of float rows exact; RocketSim v2 (Python) 0/7 exact to the end, 0.01% of float rows exact.
+- **Whole games from the initial kickoff state, the game's kickoff and respawn spots given** (42 recorded matches): catSim 42/42 exact to the end; RocketGPU (CPU) 4/42 exact to the end, first drift after 36.9 s (median); RocketGPU (CUDA) 4/42 exact to the end, first drift after 36.9 s (median); RocketSim v3 0/42 exact to the end, first drift after 0.2 s (median); RLMAX 0/42 exact to the end, first drift after 0.2 s (median); RocketSim v2 (Python) 0/42 exact to the end, first drift after 0.0 s (median).
+- **Whole games at float precision from the initial kickoff state, kickoff and respawn spots given** (7 recorded matches): catSim 6/7 exact to the end, 1 of 287,409 float rows off; RocketGPU (CPU) 3/7 exact to the end, 84.90% of float rows exact; RocketGPU (CUDA) 3/7 exact to the end, 84.90% of float rows exact; RLMAX 0/7 exact to the end, 4.00% of float rows exact; RocketSim v3 0/7 exact to the end, 0.01% of float rows exact; RocketSim v2 (Python) 0/7 exact to the end, 0.01% of float rows exact.
 - **Whole games from the initial kickoff state, only the game's random stream's initial state given** (7 recorded matches): needs the game's random stream; catSim models it: 6/7 exact to the end, 1 match drifts, the first at 154.4 s.
 
 [docs/BENCHMARKS.md](docs/BENCHMARKS.md) has every benchmark beside the other simulators.
